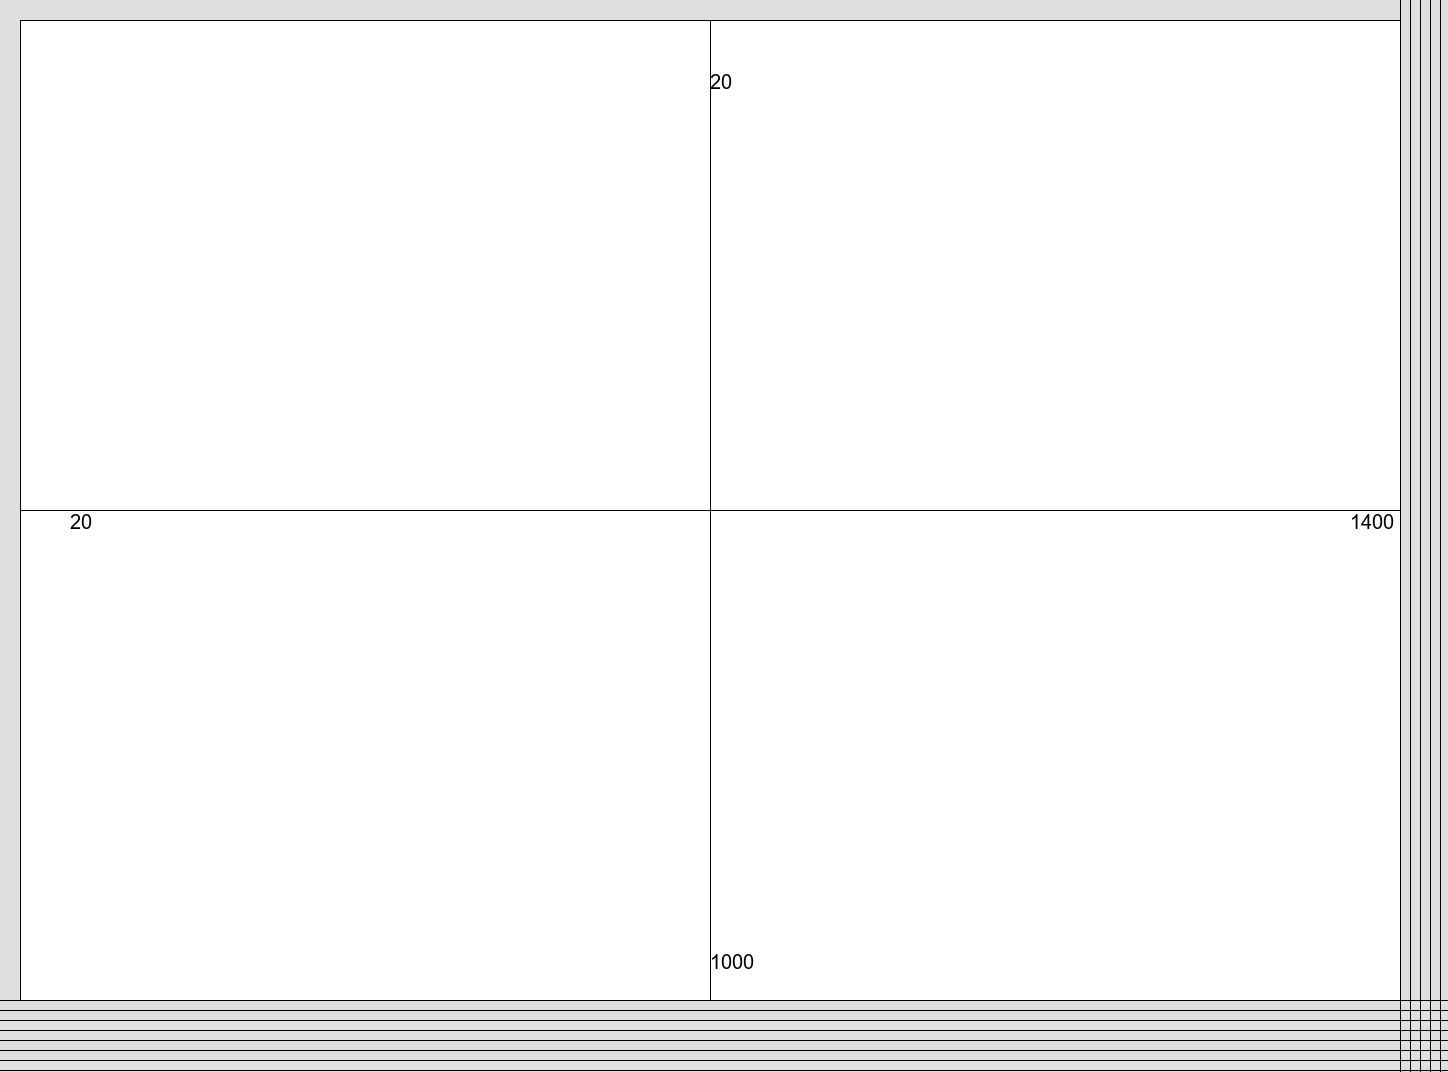
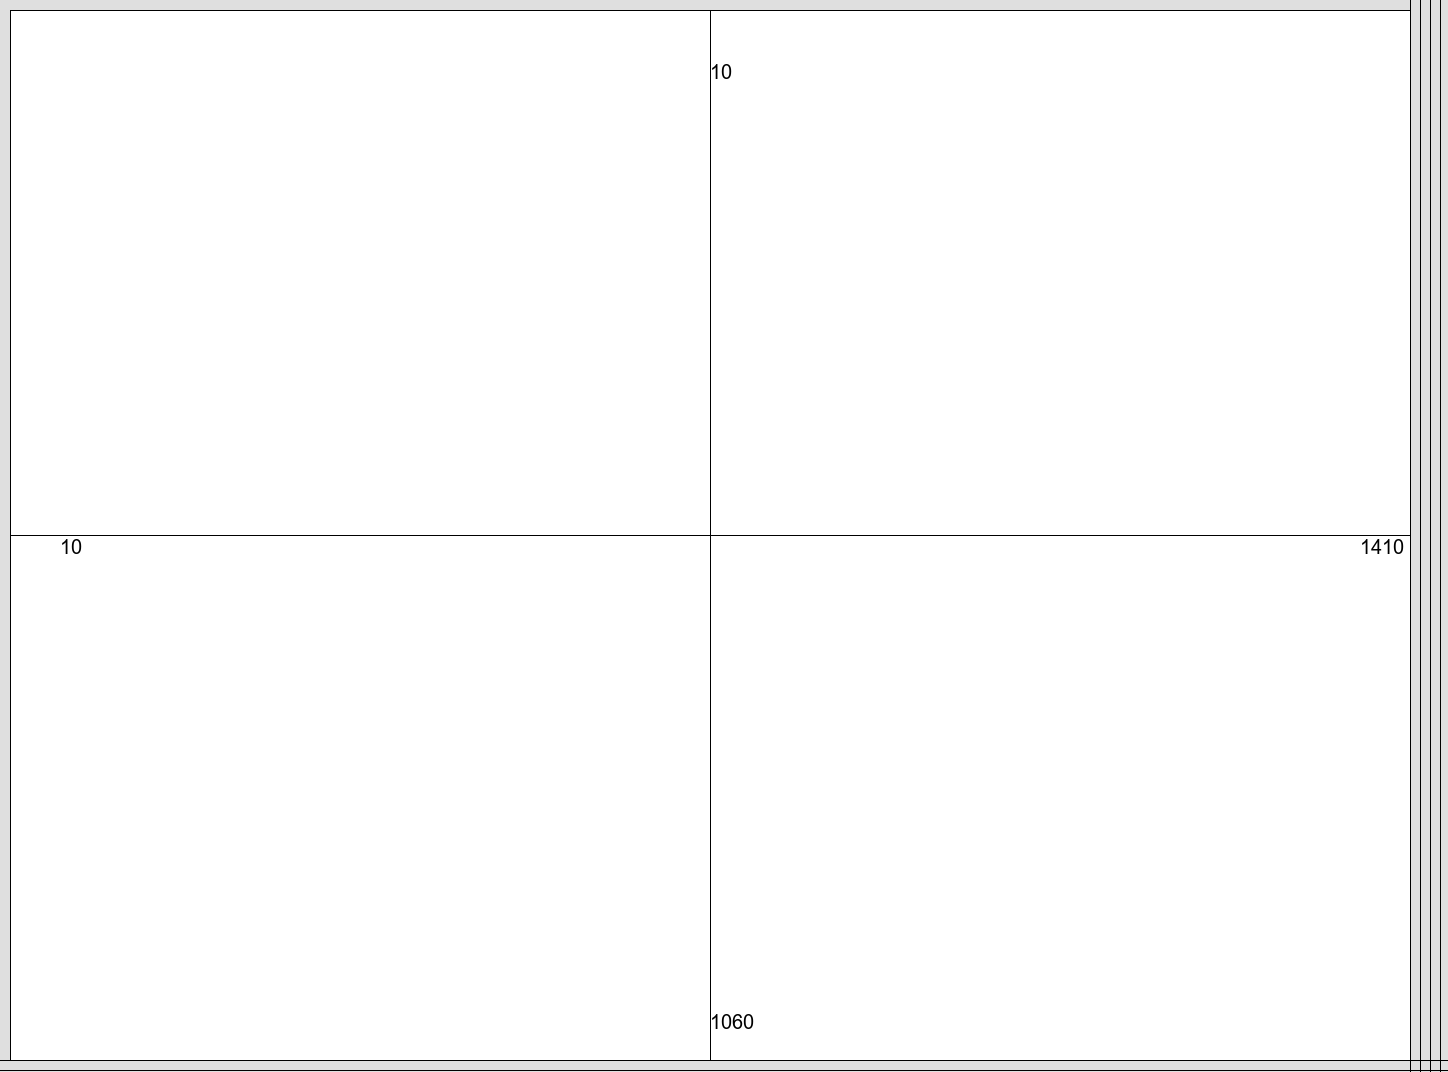
Change test image

Changed region(s): [[0.0, 0.0, 0.9945, 1.0]]

diff --git a/maketestimage.py b/maketestimage.py
@@ -3,7 +3,7 @@ from PIL import Image, ImageDraw, ImageFont
 size = (1448,1072)
 gridsize = 50
 
-bounds = (20,20,1400,1000) # x1, y1, x2, y2
+bounds = (10,10,1410,1060) # x1, y1, x2, y2
 bbox = (bounds[0],bounds[1],bounds[2]-bounds[0],bounds[3]-bounds[1]) # x, y, w, h
 
 # make an image
